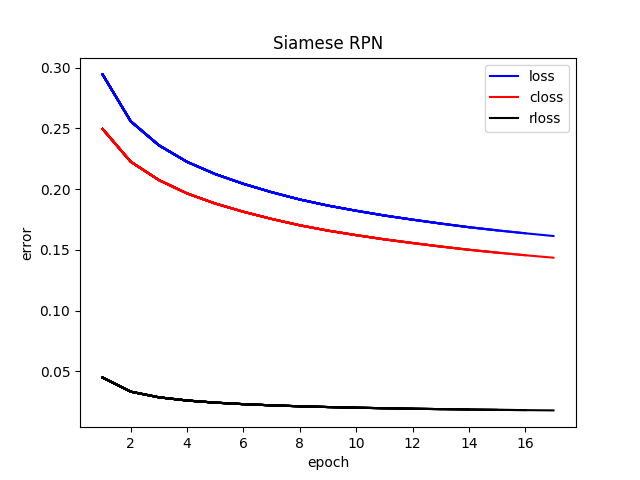
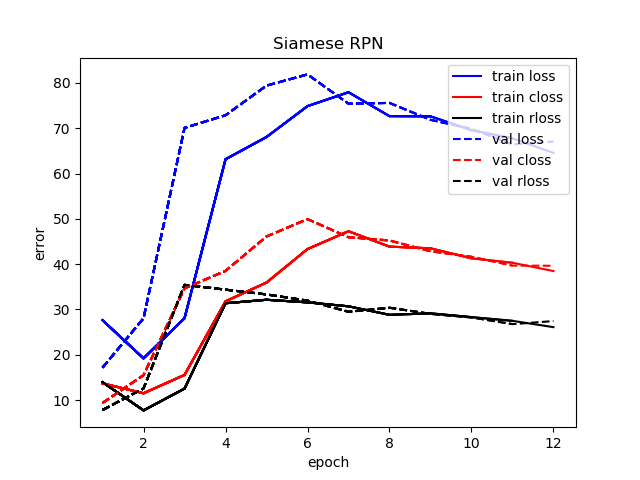
Update

diff --git a/train/train_siamrpn.py b/train/train_siamrpn.py
@@ -19,10 +19,10 @@ from got10k.datasets import ImageNetVID, GOT10k
 
 parser = argparse.ArgumentParser(description='PyTorch SiameseRPN Training')
 
-parser.add_argument('--train_path', default='/home/arbi/desktop/GOT-10k', metavar='DIR',help='path to dataset')
+parser.add_argument('--train_path', default='/Users/arbi/Desktop', metavar='DIR',help='path to dataset')
 parser.add_argument('--experiment_name', default='default', metavar='DIR',help='path to weight')
 parser.add_argument('--checkpoint_path', default=None, help='resume')
-# /home/arbi/desktop/GOT-10k
+# /home/arbi/desktop/GOT-10k # /Users/arbi/Desktop
 # 'experiments/default/model/model_e74.pth'
 def main():
 
@@ -34,11 +34,11 @@ def main():
     model = TrackerSiamRPN()
 
     '''setup train data loader'''
-    name = 'All'
+    name = 'GOT-10k'
     assert name in ['VID', 'GOT-10k', 'All']
     if name == 'GOT-10k':
         root_dir = args.train_path
-        seq_dataset = GOT10k(root_dir, subset='train')
+        seq_dataset = GOT10k(root_dir, subset='val') #train
     elif name == 'VID':
         root_dir = '/home/arbi/desktop/ILSVRC2017_VID/ILSVRC'
         seq_dataset = ImageNetVID(root_dir, subset=('train'))
@@ -58,7 +58,7 @@ def main():
                                 pin_memory = True)
 
     '''setup val data loader'''
-    name = 'All'
+    name = 'GOT-10k'
     assert name in ['VID', 'GOT-10k', 'All']
     if name == 'GOT-10k':
         root_dir = args.train_path
@@ -120,13 +120,48 @@ def main():
                     closses.closs_array.append(closses.avg)
                     rlosses.rloss_array.append(rlosses.avg)
                     tlosses.loss_array.append(tlosses.avg)
+                    '''steps.update(steps.count)
+                    steps.steps_array.append(steps.count)
+
+                    steps.plot(exp_name_dir)'''
+
+                    '''save model'''
+                    model.save(model, exp_name_dir, epoch)
+
+                    break
+
+        '''val phase'''
+        with tqdm(total=config.val_epoch_size) as progbar:
+            print('Val epoch {}/{}'.format(epoch+1, config.epoches))
+            for i, dataset in enumerate(val_loader):
+
+                closs, rloss, loss, cur_lr = model.step(epoch, dataset, backward=False)
+
+                closs_ = closs.cpu().item()
+
+                if np.isnan(closs_):
+                   sys.exit(0)
+
+                closses.update(closs.cpu().item())
+                rlosses.update(rloss.cpu().item())
+                tlosses.update(loss.cpu().item())
+
+                progbar.set_postfix(closs='{:05.3f}'.format(closses.avg), rloss='{:05.3f}'.format(rlosses.avg), tloss='{:05.3f}'.format(tlosses.avg))
+
+                progbar.update()
+
+                if i >= config.train_epoch_size - 1:
+                    '''save plot'''
+                    closses.closs_array_val.append(closses.avg)
+                    rlosses.rloss_array_val.append(rlosses.avg)
+                    tlosses.loss_array_val.append(tlosses.avg)
                     steps.update(steps.count)
                     steps.steps_array.append(steps.count)
 
                     steps.plot(exp_name_dir)
 
                     '''save model'''
-                    model.save(model, exp_name_dir, epoch)
+                    '''model.save(model, exp_name_dir, epoch)'''
 
                     break
 

diff --git a/train/util.py b/train/util.py
@@ -24,6 +24,10 @@ class AverageMeter(object):
     closs_array = []
     rloss_array = []
 
+    loss_array_val  = []
+    closs_array_val = []
+    rloss_array_val = []
+
     def reset(self):
         self.val = 0
         self.avg = 0
@@ -37,10 +41,28 @@ class AverageMeter(object):
         self.avg = self.sum / self.count
 
     '''setup plot'''
-    def plot(self, exp_name_dir, step = steps_array, loss = loss_array, closs = closs_array, rloss = rloss_array, title = "Siamese RPN", ylabel = 'error',  xlabel = 'epoch', show=False):
-        plt.plot(step, loss, 'r', label='loss', color='blue')
-        plt.plot(step, closs, 'r', label='closs', color='red')
-        plt.plot(step, rloss, 'r', label='rloss', color='black')
+    def plot(self,  exp_name_dir,
+                    step   = steps_array,
+                    train_loss   = loss_array,
+                    train_closs  = closs_array,
+                    train_rloss  = rloss_array,
+
+                    val_loss   = loss_array_val,
+                    val_closs  = closs_array_val,
+                    val_rloss  = rloss_array_val,
+
+                    title  = "Siamese RPN",
+                    ylabel = 'error',
+                    xlabel = 'epoch',
+                    show   = False):
+        plt.plot(step, train_loss, 'r', label='train loss', color='blue')
+        plt.plot(step, train_closs, 'r', label='train closs', color='red')
+        plt.plot(step, train_rloss, 'r', label='train rloss', color='black')
+
+        plt.plot(step, val_loss, 'k--', label='val loss', color='blue')
+        plt.plot(step, val_closs, 'k--', label='val closs', color='red')
+        plt.plot(step, val_rloss, 'k--', label='val rloss', color='black')
+
         plt.title(title)
         plt.ylabel(ylabel)
         plt.xlabel(xlabel)

diff --git a/train/config.py b/train/config.py
@@ -19,7 +19,8 @@ class Config(object):
 
     '''config for train_siamrpn.py'''
     epoches = 20
-    train_epoch_size = 100000
+    train_epoch_size = 10
+    val_epoch_size = 10
     lr = 1e-5
 
     weight_decay = 0.0005
